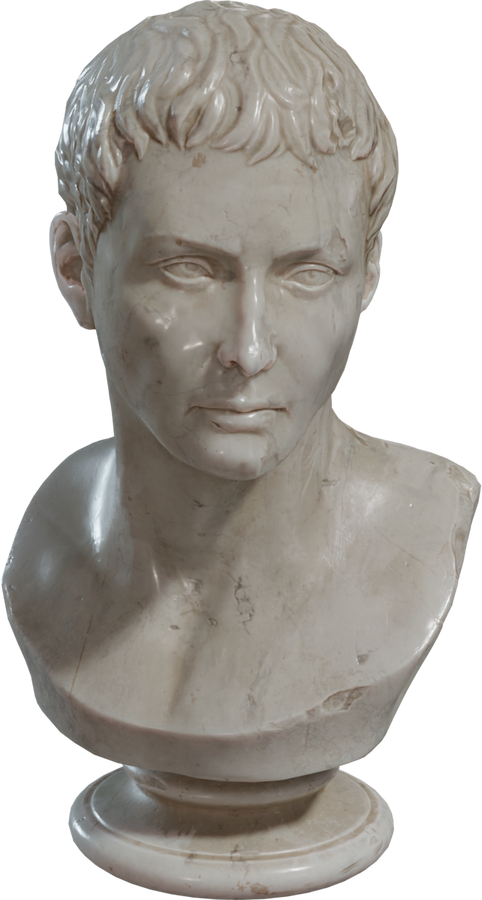
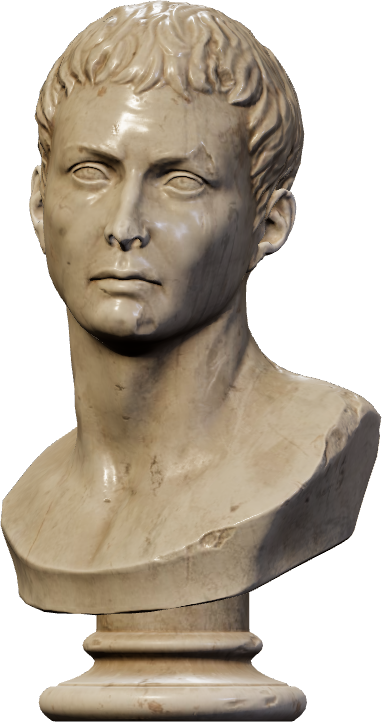
Front-facing furniture and a symmetric room built around the board
- Every piece re-rendered straight-on from its Poly Haven CC0 model
  (orthographic, warm gaslight lighting, see-through glass) at real size
- Room 3.6 m tall so the board hangs at picture height above the sofa;
  board centred with the two windows equidistant either side
- Left: grandfather clock, trunk with candlesticks, armchair, bust on a
  pedestal; right: plant, tea table, china cabinet with lamp, books and
  mantel clock, suitcases
- Large renders downscaled to keep the decor near 7.7 MB

diff --git a/index.html b/index.html
@@ -56,34 +56,34 @@
     <div class="cornice"></div><div class="rail"></div>
     <div class="dado"></div>
     <div class="floor"></div>
-    <div class="win" id="winL" style="left:1650px;top:420px;width:1000px;height:2050px"><div class="frame"><div class="opening"><canvas></canvas><div class="glass"></div><div class="sash"></div></div></div><div class="sill"></div><div class="curtain l"></div><div class="curtain r"></div><div class="pelmet"></div></div>
-    <div class="win" id="winR" style="left:6650px;top:420px;width:1000px;height:2050px"><div class="frame"><div class="opening"><canvas></canvas><div class="glass"></div><div class="sash"></div></div></div><div class="sill"></div><div class="curtain l"></div><div class="curtain r"></div><div class="pelmet"></div></div>
-    <div class="hook" style="left:3450px"></div><div class="hook" style="left:6050px"></div>
-    <div class="cord" style="left:3450px"></div><div class="cord" style="left:6050px"></div>
-    <div class="pool" style="left:537px;top:3430px;width:659px"></div>
-    <img class="prop" src="img/decor/vintage_grandfather_clock_01.png" alt="" style="left:500px;top:1239px;width:732px;height:2201px">
-    <div class="pool" style="left:1262px;top:3430px;width:392px"></div>
-    <img class="prop" src="img/decor/side_table_tall_01.png" alt="" style="left:1240px;top:2441px;width:435px;height:999px">
-    <img class="prop" src="img/decor/marble_bust_01.png" alt="" style="left:1283px;top:1835px;width:348px;height:650px">
-    <div class="pool" style="left:7832px;top:3430px;width:1480px"></div>
-    <img class="prop" src="img/decor/vintage_cabinet_01.png" alt="" style="left:7750px;top:1540px;width:1644px;height:1900px">
-    <img class="prop" src="img/decor/vintage_oil_lamp.png" alt="" style="left:7950px;top:1992px;width:187px;height:698px">
-    <img class="prop" src="img/decor/book_encyclopedia_set_01.png" alt="" style="left:8150px;top:2345px;width:620px;height:345px">
-    <img class="prop" src="img/decor/mantel_clock_01.png" alt="" style="left:8800px;top:2385px;width:520px;height:305px">
-    <div class="pool" style="left:6353px;top:3460px;width:410px"></div>
-    <img class="prop" src="img/decor/potted_plant_01.png" alt="" style="left:6330px;top:2369px;width:455px;height:1101px">
-    <div class="pool" style="left:3895px;top:3470px;width:1710px"></div>
-    <img class="prop" src="img/decor/sofa_03.png" alt="" style="left:3800px;top:2492px;width:1900px;height:988px">
-    <div class="pool" style="left:5105px;top:3820px;width:990px"></div>
-    <img class="prop" src="img/decor/round_wooden_table_01.png" alt="" style="left:5050px;top:2828px;width:1100px;height:1002px">
-    <img class="prop" src="img/decor/tea_set_01.png" alt="" style="left:5250px;top:2658px;width:700px;height:290px">
-    <div class="pool" style="left:1900px;top:3840px;width:900px"></div>
-    <img class="prop" src="img/decor/treasure_chest.png" alt="" style="left:1850px;top:3088px;width:1000px;height:762px">
-    <img class="prop" src="img/decor/brass_candleholders.png" alt="" style="left:2120px;top:2800px;width:500px;height:450px">
-    <div class="pool" style="left:6936px;top:3860px;width:651px"></div>
-    <img class="prop" src="img/decor/chinese_armchair.png" alt="" style="left:6900px;top:2620px;width:723px;height:1250px">
-    <div class="pool" style="left:8495px;top:3870px;width:810px"></div>
-    <img class="prop" src="img/decor/vintage_suitcase.png" alt="" style="left:8450px;top:3403px;width:900px;height:477px">
+    <div class="win" id="winL" style="left:2620px;top:470px;width:1000px;height:2230px"><div class="frame"><div class="opening"><canvas></canvas><div class="glass"></div><div class="sash"></div></div></div><div class="sill"></div><div class="curtain l"></div><div class="curtain r"></div><div class="pelmet"></div></div>
+    <div class="win" id="winR" style="left:8140px;top:470px;width:1000px;height:2230px"><div class="frame"><div class="opening"><canvas></canvas><div class="glass"></div><div class="sash"></div></div></div><div class="sill"></div><div class="curtain l"></div><div class="curtain r"></div><div class="pelmet"></div></div>
+    <div class="hook" style="left:4580px"></div><div class="hook" style="left:7180px"></div>
+    <div class="cord" style="left:4580px"></div><div class="cord" style="left:7180px"></div>
+    <div class="pool" style="left:725px;top:3613px;width:577px"></div>
+    <img class="prop" src="img/decor/vintage_grandfather_clock_01.png" alt="" style="left:700px;top:1434px;width:627px;height:2191px">
+    <div class="pool" style="left:9731px;top:3613px;width:1861px"></div>
+    <img class="prop" src="img/decor/vintage_cabinet_01.png" alt="" style="left:9650px;top:1389px;width:2023px;height:2236px">
+    <img class="prop" src="img/decor/vintage_oil_lamp.png" alt="" style="left:9860px;top:1938px;width:220px;height:802px">
+    <img class="prop" src="img/decor/book_encyclopedia_set_01.png" alt="" style="left:10300px;top:2502px;width:551px;height:238px">
+    <img class="prop" src="img/decor/mantel_clock_01.png" alt="" style="left:11050px;top:2579px;width:343px;height:161px">
+    <div class="pool" style="left:3938px;top:3628px;width:353px"></div>
+    <img class="prop" src="img/decor/side_table_tall_01.png" alt="" style="left:3923px;top:2878px;width:384px;height:762px">
+    <img class="prop" src="img/decor/marble_bust_01.png" alt="" style="left:3979px;top:2369px;width:273px;height:516px">
+    <div class="pool" style="left:7375px;top:3638px;width:541px"></div>
+    <img class="prop" src="img/decor/potted_plant_01.png" alt="" style="left:7351px;top:2313px;width:588px;height:1337px">
+    <div class="pool" style="left:4623px;top:3628px;width:2513px"></div>
+    <img class="prop" src="img/decor/sofa_03.png" alt="" style="left:4514px;top:2520px;width:2731px;height:1120px">
+    <div class="pool" style="left:2454px;top:4018px;width:781px"></div>
+    <img class="prop" src="img/decor/chinese_armchair.png" alt="" style="left:2420px;top:2441px;width:849px;height:1589px">
+    <div class="pool" style="left:7756px;top:3988px;width:1289px"></div>
+    <img class="prop" src="img/decor/round_wooden_table_01.png" alt="" style="left:7700px;top:2993px;width:1401px;height:1007px">
+    <img class="prop" src="img/decor/tea_set_01.png" alt="" style="left:7941px;top:2837px;width:919px;height:166px">
+    <div class="pool" style="left:1188px;top:4028px;width:883px"></div>
+    <img class="prop" src="img/decor/treasure_chest.png" alt="" style="left:1150px;top:3420px;width:960px;height:620px">
+    <img class="prop" src="img/decor/brass_candleholders.png" alt="" style="left:1103px;top:2595px;width:1054px;height:835px">
+    <div class="pool" style="left:9994px;top:4058px;width:1479px"></div>
+    <img class="prop" src="img/decor/vintage_suitcase.png" alt="" style="left:9930px;top:3501px;width:1608px;height:569px">
     <div class="light"></div>
     </div>
     <div id="board">

diff --git a/css/board.css b/css/board.css
@@ -38,8 +38,8 @@ button{font:inherit}
 #viewport{flex:1;min-height:0;overflow:auto;display:flex;position:relative;z-index:1;background:radial-gradient(ellipse at 50% 40%,#22140d,#0e0806 75%);padding-block:16px;padding-left:max(16px,env(safe-area-inset-left,0px));padding-right:max(16px,env(safe-area-inset-right,0px));scrollbar-color:#5a4532 #1a1310}
 #viewport.panning{cursor:grabbing}
 #stage{position:relative;margin:auto;flex:none}
-#scene{position:absolute;left:0;top:0;width:9500px;height:3900px;transform-origin:0 0}
-#board{position:absolute;left:3210px;top:520px;width:3080px;height:1980px}
+#scene{position:absolute;left:0;top:0;width:11760px;height:4100px;transform-origin:0 0}
+#board{position:absolute;left:4340px;top:480px;width:3080px;height:1980px}
 .fr-shadow{position:absolute;inset:0;border-radius:3px;box-shadow:24px 46px 70px rgba(10,3,0,.7),6px 12px 18px rgba(10,3,0,.5),0 0 0 1px #6b4f2a}
 .fr{position:absolute;inset:0}
 .fr.t{clip-path:polygon(0 0,100% 0,calc(100% - 40px) 40px,40px 40px);background:repeating-linear-gradient(180deg,transparent 0 2px,rgba(150,100,45,.17) 2px 3px,transparent 3px 7px,rgba(255,245,215,.2) 7px 8px,transparent 8px 13px,rgba(120,80,35,.1) 13px 15px,transparent 15px 19px),linear-gradient(180deg,#eed59f,#d9b878 70%,#c29b5c)}
@@ -95,16 +95,16 @@ button{font:inherit}
 /* the room: one scene in world pixels (1 m = 1000 px) that zooms with the board.
    Morris wallpaper, picture rail, panelled dado, floorboards, two sash windows onto the street, and furniture */
 #room{--sash:#5a4330;position:absolute;inset:0;pointer-events:none;background:#24100b;overflow:hidden}
-#room .wall{position:absolute;left:0;right:0;top:0;height:2500px;background:url("../img/room/wallpaper.jpg") 0 0/900px auto repeat;filter:brightness(.45) sepia(.7) saturate(1.5) hue-rotate(-18deg)}
+#room .wall{position:absolute;left:0;right:0;top:0;height:2700px;background:url("../img/room/wallpaper.jpg") 0 0/900px auto repeat;filter:brightness(.45) sepia(.7) saturate(1.5) hue-rotate(-18deg)}
 #room .cornice{position:absolute;left:0;right:0;top:0;height:90px;background:linear-gradient(rgba(0,0,0,.55),rgba(255,220,180,.12) 70%,rgba(0,0,0,.6)),url("../img/room/wood.jpg") 0 0/900px auto;box-shadow:inset 0 0 0 999px rgba(25,10,4,.45),0 14px 24px rgba(0,0,0,.5)}
-#room .rail{position:absolute;left:0;right:0;top:360px;height:34px;background:linear-gradient(rgba(255,220,180,.2),rgba(0,0,0,0) 35%,rgba(0,0,0,.55)),url("../img/room/wood.jpg") 0 0/700px auto;box-shadow:inset 0 0 0 999px rgba(25,10,4,.35),0 10px 14px rgba(0,0,0,.45)}
-#room .dado{position:absolute;left:0;right:0;top:2500px;height:900px;background:repeating-linear-gradient(90deg,rgba(0,0,0,.5) 0 16px,rgba(255,215,170,.08) 16px 28px,transparent 28px 880px,rgba(0,0,0,.28) 880px 900px),linear-gradient(rgba(0,0,0,.4),transparent 10%,transparent 72%,rgba(0,0,0,.4) 80%),url("../img/room/wood.jpg") 0 0/1200px auto;box-shadow:inset 0 0 0 999px rgba(25,10,4,.45)}
+#room .rail{position:absolute;left:0;right:0;top:300px;height:34px;background:linear-gradient(rgba(255,220,180,.2),rgba(0,0,0,0) 35%,rgba(0,0,0,.55)),url("../img/room/wood.jpg") 0 0/700px auto;box-shadow:inset 0 0 0 999px rgba(25,10,4,.35),0 10px 14px rgba(0,0,0,.45)}
+#room .dado{position:absolute;left:0;right:0;top:2700px;height:900px;background:repeating-linear-gradient(90deg,rgba(0,0,0,.5) 0 16px,rgba(255,215,170,.08) 16px 28px,transparent 28px 880px,rgba(0,0,0,.28) 880px 900px),linear-gradient(rgba(0,0,0,.4),transparent 10%,transparent 72%,rgba(0,0,0,.4) 80%),url("../img/room/wood.jpg") 0 0/1200px auto;box-shadow:inset 0 0 0 999px rgba(25,10,4,.45)}
 #room .dado::before{content:"";position:absolute;left:0;right:0;top:-24px;height:48px;background:linear-gradient(rgba(255,220,180,.2),rgba(0,0,0,0) 40%,rgba(0,0,0,.55)),url("../img/room/wood.jpg") 0 0/800px auto;box-shadow:0 12px 20px rgba(0,0,0,.5)}
 #room .dado::after{content:"";position:absolute;left:0;right:0;bottom:0;height:170px;background:linear-gradient(rgba(255,220,180,.16),rgba(0,0,0,0) 10%,rgba(0,0,0,.5)),url("../img/room/wood.jpg") 0 0/800px auto;box-shadow:inset 0 0 0 999px rgba(15,6,2,.5)}
-#room .floor{position:absolute;left:0;right:0;top:3400px;bottom:0;background:linear-gradient(rgba(0,0,0,.65),rgba(0,0,0,.2) 60%,rgba(0,0,0,.35)),url("../img/room/floor.jpg") 0 0/1100px auto}
+#room .floor{position:absolute;left:0;right:0;top:3600px;bottom:0;background:linear-gradient(rgba(0,0,0,.65),rgba(0,0,0,.2) 60%,rgba(0,0,0,.35)),url("../img/room/floor.jpg") 0 0/1100px auto}
 #room .light{position:absolute;inset:0;background:radial-gradient(ellipse 40% 55% at 50% 32%,rgba(255,180,110,.13),rgba(0,0,0,0) 70%),radial-gradient(ellipse at 50% 50%,rgba(0,0,0,0) 50%,rgba(8,3,2,.6) 100%)}
-#room .hook{position:absolute;top:372px;width:40px;height:52px;margin-left:-20px;background:radial-gradient(circle at 40% 30%,#f4dc9a,#a87f34 55%,#4a3512);border-radius:50% 50% 40% 40%;box-shadow:2px 6px 8px rgba(0,0,0,.6)}
-#room .cord{position:absolute;top:416px;height:114px;width:14px;margin-left:-7px;background:repeating-linear-gradient(-35deg,#7a5a32 0 7px,#3a2814 7px 14px);box-shadow:6px 10px 8px rgba(0,0,0,.45)}
+#room .hook{position:absolute;top:312px;width:40px;height:52px;margin-left:-20px;background:radial-gradient(circle at 40% 30%,#f4dc9a,#a87f34 55%,#4a3512);border-radius:50% 50% 40% 40%;box-shadow:2px 6px 8px rgba(0,0,0,.6)}
+#room .cord{position:absolute;top:356px;height:124px;width:14px;margin-left:-7px;background:repeating-linear-gradient(-35deg,#7a5a32 0 7px,#3a2814 7px 14px);box-shadow:6px 10px 8px rgba(0,0,0,.45)}
 #room .win{position:absolute}
 #room .win::before{content:"";position:absolute;inset:-25% -45%;background:radial-gradient(ellipse at 50% 45%,rgba(150,165,195,.12),rgba(0,0,0,0) 62%)}
 #room .frame{position:absolute;inset:0;padding:8%;background:url("../img/room/wood.jpg") 0 0/900px auto;box-shadow:inset 0 0 0 999px rgba(25,10,4,.35),inset 0 0 0 8px rgba(0,0,0,.6),0 40px 90px rgba(0,0,0,.6)}
@@ -117,5 +117,5 @@ button{font:inherit}
 #room .curtain.l{left:-27%;clip-path:polygon(0 0,100% 0,100% 6%,40% 55%,78% 100%,0 100%)}
 #room .curtain.r{right:-27%;clip-path:polygon(0 0,100% 0,100% 100%,22% 100%,60% 55%,0 6%)}
 #room .pelmet{position:absolute;left:-34%;right:-34%;top:-9%;height:7%;background:linear-gradient(rgba(255,220,180,.12),rgba(0,0,0,0) 30%,rgba(0,0,0,.45)),url("../img/room/wood.jpg") 0 0/900px auto;box-shadow:inset 0 0 0 999px rgba(25,10,4,.4),0 24px 40px rgba(0,0,0,.55)}
-#room .prop{position:absolute;display:block;filter:brightness(.6) sepia(.22) saturate(.85) drop-shadow(20px 26px 22px rgba(8,3,1,.55))}
+#room .prop{position:absolute;display:block;filter:brightness(.72) sepia(.2) saturate(.9) drop-shadow(20px 26px 22px rgba(8,3,1,.55))}
 #room .pool{position:absolute;height:90px;margin-top:-45px;background:radial-gradient(ellipse closest-side,rgba(5,2,0,.6),rgba(5,2,0,0))}

diff --git a/README.md b/README.md
@@ -57,7 +57,7 @@ http.server`).
   [Wikimedia Commons](https://commons.wikimedia.org/wiki/File:Morris_St_James_1880.jpg)
 - Wood, floorboards, brick and cobblestone textures: [Poly Haven](https://polyhaven.com)
   (CC0): Dark Wood, Wood Floor Worn, Dark Brick Wall, Cobblestone 02
-- Furniture and objects: renders of [Poly Haven](https://polyhaven.com/models) models (CC0):
+- Furniture and objects: front-view renders of [Poly Haven](https://polyhaven.com/models) models (CC0):
   Vintage Grandfather Clock 01, Side Table Tall 01, Marble Bust 01, Vintage
   Cabinet 01, Vintage Oil Lamp, Book Encyclopedia Set 01, Mantel Clock 01,
   Potted Plant 01, Sofa 03, Round Wooden Table 01, Tea Set 01, Treasure Chest,
